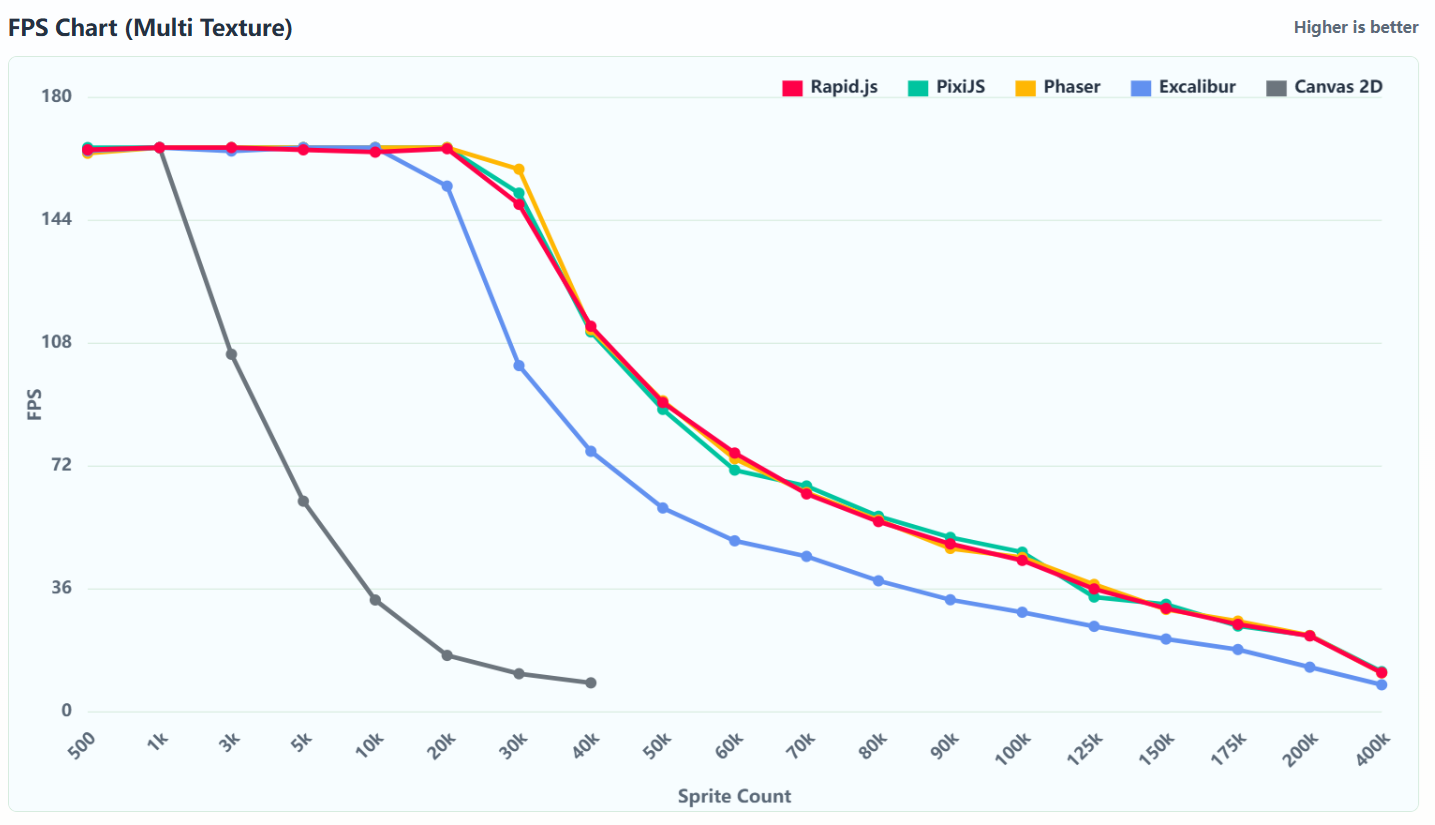
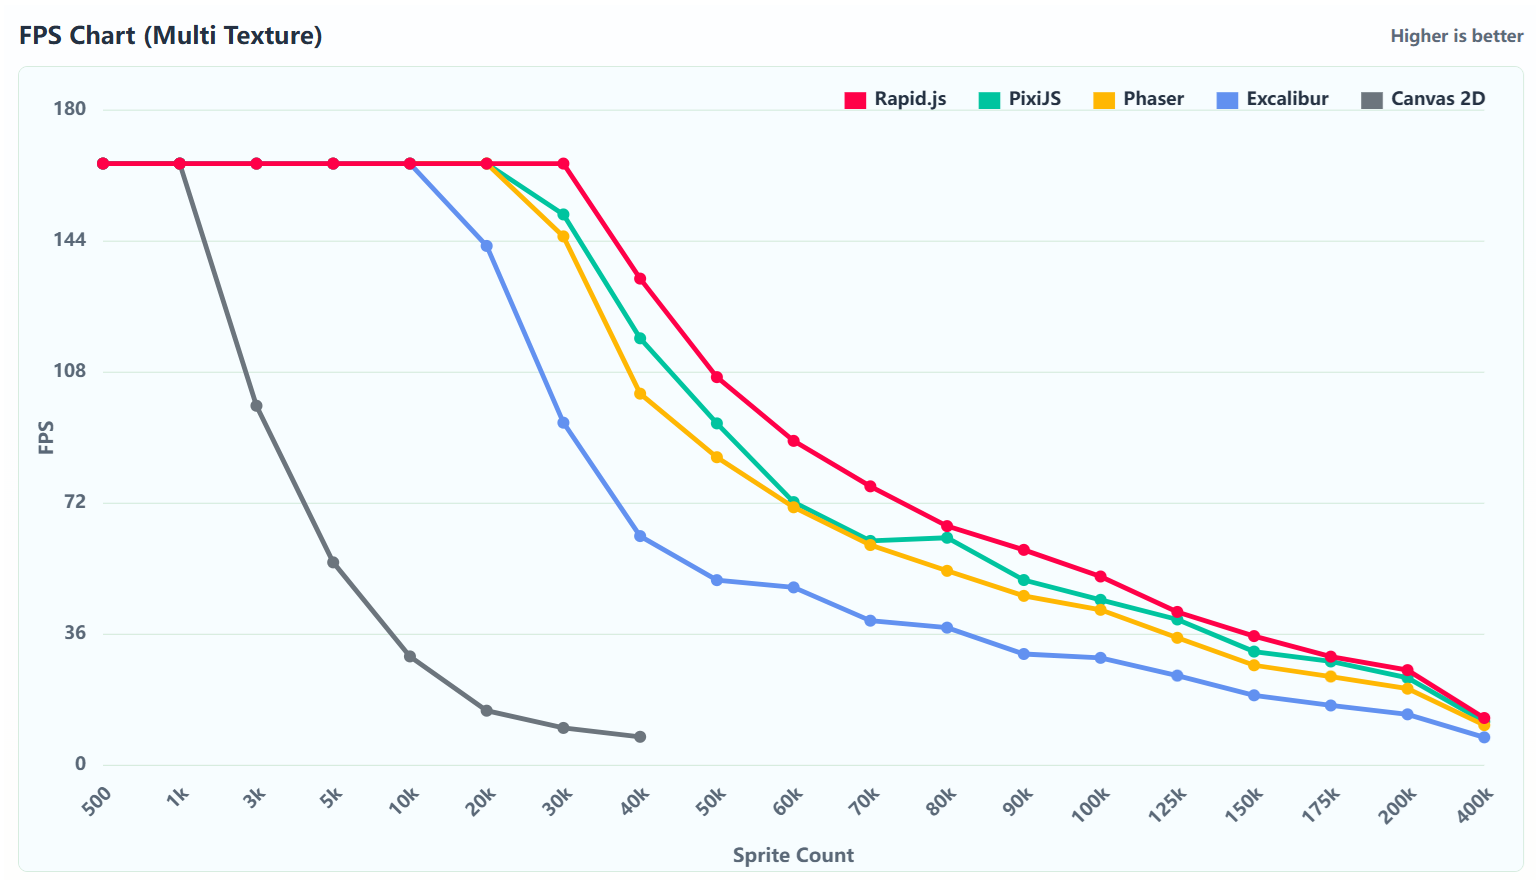
update benchmark data

diff --git a/docs/home.js b/docs/home.js
@@ -1,5 +1,58 @@
 import { demoOrder, demos, mountDemo, renderDemoCode } from "./demos.js";
 
+const chartColors = { rapid: "#ff3b67", pixi: "#16b89c", phaser: "#ffb20f", excalibur: "#6b97ec", canvas: "#68747d" };
+const packageData = [
+  ["rapid", "Rapid.js", 61.9, "61.9 kB"],
+  ["phaser", "Phaser", 1380, "1.38 MB"],
+  ["pixi", "PixiJS", 798, "798 kB"],
+  ["excalibur", "Excalibur", 574, "574 kB"],
+];
+const multiData = {
+  labels: ["500", "1k", "3k", "5k", "10k", "20k", "30k", "40k", "50k", "60k", "70k", "80k", "90k", "100k", "125k", "150k", "175k", "200k", "400k"],
+  series: [
+    ["Rapid.js", "rapid", [165.3, 164.7, 165.3, 165.3, 165.3, 165.3, 165.3, 139.3, 111.1, 92.3, 80.8, 71.0, 63.2, 57.1, 44.7, 37.7, 31.7, 28.3, 13.9]],
+    ["PixiJS", "pixi", [164.7, 165.0, 164.7, 165.3, 165.3, 165.3, 143.7, 115.1, 94.5, 80.7, 67.5, 61.3, 54.6, 44.8, 39.3, 32.9, 26.3, 23.8, 11.3]],
+    ["Phaser", "phaser", [165.3, 165.4, 165.3, 165.3, 164.7, 164.3, 152.4, 115.3, 90.3, 74.8, 64.5, 57.7, 51.6, 47.0, 35.9, 30.6, 25.6, 22.4, 11.6]],
+    ["Excalibur", "excalibur", [164.7, 164.3, 165.3, 165.3, 165.3, 147.7, 98.7, 74.8, 61.1, 52.5, 46.1, 40.1, 33.1, 31.3, 24.3, 20.7, 17.6, 14.9, 7.8]],
+    ["Canvas 2D", "canvas", [165.3, 165.3, 103.2, 58.5, 32.2, 16.3, 11.2, 8.5, null, null, null, null, null, null, null, null, null, null, null]],
+  ],
+};
+const chartSvg = (data) => {
+  const width = 620; const height = 290; const left = 52; const right = 16; const top = 22; const bottom = 58; const plotW = width - left - right; const plotH = height - top - bottom;
+  const x = (i) => left + i * plotW / (data.labels.length - 1); const y = (v) => top + (180 - v) * plotH / 180;
+  const grid = [0, 60, 120, 180].map((v) => `<line class="chart-gridline" x1="${left}" y1="${y(v)}" x2="${width - right}" y2="${y(v)}"/><text class="axis-label" x="4" y="${y(v) + 4}">${v}</text>`).join("");
+  const labels = data.labels.map((label, i) => `<text class="x-label" x="${x(i)}" y="${height - 30}" text-anchor="middle">${label}</text>`).join("");
+  const series = [...data.series].sort(([, firstKey], [, secondKey]) => (firstKey === "rapid") - (secondKey === "rapid")).map(([label, key, values]) => { const coords = values.map((v, i) => v == null ? null : [x(i), y(v)]).filter(Boolean); const lengths = coords.map((point, i) => i === 0 ? 0 : Math.hypot(point[0] - coords[i - 1][0], point[1] - coords[i - 1][1])); const totalLength = lengths.reduce((sum, length) => sum + length, 0); let travelled = 0; const points = coords.map(([px, py]) => `${px},${py}`).join(" "); const dots = coords.map(([px, py], i) => { travelled += lengths[i]; const progress = totalLength ? travelled / totalLength : 0; return `<circle class="line-dot" style="--dot-delay:${0.18 + progress * 2.55}s" cx="${px}" cy="${py}" r="3.7" fill="${chartColors[key]}"/>`; }).join(""); return `<g class="line-series"><polyline class="chart-line" pathLength="1" points="${points}" stroke="${chartColors[key]}"/><g>${dots}</g></g>`; }).join("");
+  const legend = data.series.map(([label, key]) => `<span><i style="background:${chartColors[key]}"></i>${label}</span>`).join("");
+  return `<div class="chart-legend">${legend}</div><svg viewBox="0 0 ${width} ${height}" preserveAspectRatio="none" aria-hidden="true">${grid}${labels}<text class="chart-axis-title" x="15" y="${top + plotH / 2}" text-anchor="middle" transform="rotate(-90 15 ${top + plotH / 2})">FPS</text><text class="chart-axis-title" x="${left + plotW / 2}" y="${height - 5}" text-anchor="middle">Sprite Count</text>${series}</svg>`;
+};
+
+const packageChartSvg = () => {
+  const max = 1400;
+  const width = 560; const height = 250; const left = 82; const bottom = 34; const plotH = 178;
+  const bars = packageData.map(([key, label, value, display], index) => {
+    const x = left + index * 116; const h = Math.max(7, value / max * plotH); const y = height - bottom - h;
+    return `<rect class="package-bar" x="${x}" y="${y}" width="58" height="${h}" fill="${chartColors[key] || "#7bcf8b"}"/><text class="package-label" x="${x + 29}" y="${height - 10}" text-anchor="middle">${label}</text><text class="bar-value" x="${x + 29}" y="${Math.max(18, y - 10)}" text-anchor="middle">${display}</text>`;
+  }).join("");
+  return `<svg viewBox="0 0 ${width} ${height}" preserveAspectRatio="none" aria-hidden="true"><line class="chart-axis" x1="${left - 12}" y1="${height - bottom}" x2="${width - 15}" y2="${height - bottom}"/><line class="chart-gridline" x1="${left - 12}" y1="${height - bottom - plotH / 2}" x2="${width - 15}" y2="${height - bottom - plotH / 2}"/><text class="axis-label" x="12" y="${height - bottom + 4}">0</text><text class="axis-label" x="8" y="${height - bottom - plotH / 2 + 4}">700k</text><text class="axis-label" x="8" y="${height - bottom - plotH + 4}">1.4M</text>${bars}</svg>`;
+};
+
+document.querySelectorAll("[data-chart]").forEach((section) => {
+  const packageTarget = section.querySelector(".package-chart");
+  const target = section.querySelector(".line-chart");
+  if (packageTarget) packageTarget.innerHTML = packageChartSvg();
+  if (target) target.innerHTML = chartSvg(multiData);
+});
+
+const chartObserver = new IntersectionObserver((entries, observer) => {
+  entries.forEach(({ isIntersecting, target }) => {
+    if (!isIntersecting) return;
+    target.classList.add("is-visible");
+    observer.unobserve(target);
+  });
+}, { threshold: 0.28 });
+document.querySelectorAll(".reveal-chart").forEach((chart) => chartObserver.observe(chart));
+
 const select = document.querySelector("#home-demo-select");
 const code = document.querySelector("#home-demo-code");
 const copyButton = document.querySelector("[data-copy-target]");

diff --git a/docs/styles.css b/docs/styles.css
@@ -393,6 +393,57 @@ h1 {
   padding: 4rem 0;
 }
 
+.proof-section {
+  padding: 4rem 0 5rem;
+  background: rgba(255, 255, 255, 0.3);
+  border-top: 1px solid rgba(215, 236, 223, 0.72);
+  border-bottom: 1px solid rgba(215, 236, 223, 0.72);
+}
+
+.proof-heading {
+  max-width: 43rem;
+  margin-bottom: 3rem;
+}
+
+.proof-heading h2 {
+  margin: 0;
+  font-size: 2.4rem;
+  font-weight: 900;
+  line-height: 1.05;
+}
+
+.proof-heading p { margin: 0; color: #5a6877; font-size: 1.05rem; font-weight: 650; }
+.proof-grid { display: grid; gap: 5rem; }
+.proof-row { display: grid; grid-template-columns: minmax(0, 1.1fr) minmax(18rem, 0.9fr); gap: clamp(2rem, 7vw, 7rem); align-items: center; }
+.proof-row-copy-first { grid-template-columns: minmax(18rem, 0.9fr) minmax(0, 1.1fr); }
+.proof-copy { max-width: 30rem; }
+.proof-eyebrow { display: inline-block; margin-bottom: .9rem; color: var(--rapid-leaf); font-size: .75rem; font-weight: 900; letter-spacing: .08em; text-transform: uppercase; }
+.proof-title { display: flex; align-items: center; gap: 1rem; margin-bottom: 1rem; }
+.proof-title-icon { flex: 0 0 76px; width: 76px; height: 76px; object-fit: contain; }
+.proof-title h3 { margin-bottom: 0; font-size: clamp(1.9rem, 3.1vw, 2.8rem); white-space: nowrap; }
+.proof-copy h3 { margin: 0 0 1rem; font-size: clamp(2rem, 4vw, 3.25rem); font-weight: 900; line-height: 1.02; }
+.proof-copy h3 em { color: inherit; font-style: normal; }
+.proof-copy p { margin-bottom: 1rem; color: #5a6877; font-size: 1.04rem; line-height: 1.65; }
+.proof-copy strong { color: var(--rapid-ink); }
+.proof-note { color: #71808c; font-size: .78rem; font-weight: 800; }
+.proof-benchmark { display: inline-flex; gap: .35rem; align-items: center; margin-top: 1rem; color: #267fa9; font-size: .88rem; font-weight: 900; text-decoration: none; }
+.proof-benchmark:hover, .proof-benchmark:focus { color: var(--rapid-leaf); }
+.proof-visual { min-width: 0; }
+.chart-kicker { display: flex; align-items: center; justify-content: space-between; gap: .5rem; margin: 0 0 .7rem .25rem; color: #536070; font-size: .84rem; font-weight: 850; }
+.chart-kicker > span:first-child { display: inline-flex; align-items: center; gap: .5rem; }
+.chart-quality { color: #71808c; font-size: .76rem; font-weight: 800; }
+.chart-dot { display: block; width: .65rem; height: .65rem; border-radius: 50%; }
+.chart-dot-blue { background: var(--rapid-blue); }.chart-dot-coral { background: var(--rapid-coral); }.chart-dot-mint { background: var(--rapid-leaf); }
+.chart-frame { position: relative; min-height: 17rem; padding: 1rem .85rem .5rem; background: rgba(247, 253, 255, .82); border: 1px solid var(--rapid-line); border-radius: 8px; box-shadow: 0 8px 0 rgba(84, 184, 234, .12); }
+.package-chart, .line-chart { width: 100%; height: 100%; min-height: 15rem; }
+.chart-frame svg { display: block; width: 100%; height: 100%; overflow: visible; }
+.chart-gridline { stroke: #d7ecdf; stroke-width: 1; }.chart-axis { stroke: #9bdcb0; stroke-width: 1.5; }.axis-label, .x-label { fill: #72818c; font-size: 10px; font-weight: 800; }.x-label { font-size: 9px; }.chart-axis-title { fill: #536070; font-size: 11px; font-weight: 900; }
+.chart-legend { display: flex; flex-wrap: wrap; gap: .4rem .8rem; margin: 0 0 .1rem .25rem; color: #536070; font-size: .68rem; font-weight: 800; }.chart-legend span { display: inline-flex; align-items: center; gap: .3rem; }.chart-legend i { display: block; width: .55rem; height: .55rem; border-radius: 50%; }.chart-line { fill: none; stroke-width: 3; stroke-linecap: round; stroke-linejoin: round; stroke-dasharray: 1; stroke-dashoffset: 1; transition: stroke-dashoffset 2.7s cubic-bezier(.2,.8,.2,1); }.is-visible .chart-line { stroke-dashoffset: 0; }.line-dot { opacity: 0; transform: scale(0); transform-box: fill-box; transform-origin: center; transition: opacity .08s linear var(--dot-delay), transform .42s cubic-bezier(.34,1.56,.64,1) var(--dot-delay); }.is-visible .line-dot { opacity: 1; transform: scale(1); }
+.bar-value, .package-label { fill: #243142; font-size: 10px; font-weight: 900; }.package-bar { transform-box: fill-box; transform-origin: center bottom; transform: scaleY(0); transition: transform .8s cubic-bezier(.2,.8,.2,1); }.is-visible .package-bar { transform: scaleY(1); }
+.reveal-chart .proof-copy { opacity: 0; transform: translateY(20px); transition: opacity .7s ease, transform .7s ease; }.reveal-chart.is-visible .proof-copy { opacity: 1; transform: translateY(0); }
+
+@media (max-width: 767.98px) { .proof-section { padding: 3rem 0 4rem; }.proof-grid { gap: 3.5rem; }.proof-row, .proof-row-copy-first { grid-template-columns: 1fr; gap: 1.75rem; }.proof-row-copy-first .proof-copy { order: -1; }.chart-frame { min-height: 14rem; }.package-chart, .line-chart { min-height: 12.5rem; }.proof-title-icon { flex-basis: 60px; width: 60px; height: 60px; }.proof-title h3 { font-size: 1.75rem; } }
+
 .users-heading {
   max-width: 42rem;
   margin-bottom: 2rem;
@@ -847,4 +898,3 @@ footer {
     overflow: visible;
   }
 }
-

diff --git a/docs/index.html b/docs/index.html
@@ -106,6 +106,45 @@
         </div>
       </section>
 
+      <section class="proof-section" aria-labelledby="proof-title">
+        <div class="container">
+          <div class="proof-heading">
+            <div class="users-title">
+              <img src="./image/fast.png" class="users-title-icon pixel-art" alt="">
+              <h2 id="proof-title">Built to stay light.</h2>
+            </div>
+            <p>Small downloads, steady frames, and a renderer that keeps its shape as your scene grows.</p>
+          </div>
+
+          <div class="proof-grid">
+            <article class="proof-row proof-row-chart-first reveal-chart" data-chart="package">
+              <div class="proof-visual">
+                <div class="chart-kicker"><span><span class="chart-dot chart-dot-blue"></span> Production bundle size</span></div>
+                <div class="chart-frame"><div class="package-chart" role="img" aria-label="Bundle size comparison chart"></div></div>
+              </div>
+              <div class="proof-copy">
+                <div class="proof-title"><img src="./image/fast-download.png" class="proof-title-icon pixel-art" alt=""><h3>Less to download.<br><em>More room to play.</em></h3></div>
+                <p>Rapid Render stays compact at <strong>61.9 kB (~18 kB gzipped)</strong>, leaving more room for the game code that makes your world feel alive.</p>
+                <span class="proof-note">Compared with popular 2D renderers</span>
+              </div>
+            </article>
+
+            <article class="proof-row proof-row-copy-first reveal-chart" data-chart="multi">
+              <div class="proof-copy">
+                <div class="proof-title"><img src="./image/run-fast.png" class="proof-title-icon pixel-art" alt=""><h3>Batch more sprites.<br><em>Keep the frame.</em></h3></div>
+                <p>Rapid.js keeps its frame-time curve remarkably steady as scenes grow. Automatic batching handles the grouping, so your game code can stay focused on the scene.</p>
+                <a class="proof-benchmark" href="./benchmark/">Test it yourself in the benchmark <span aria-hidden="true">→</span></a>
+              </div>
+              <div class="proof-visual">
+                <div class="chart-kicker"><span><span class="chart-dot chart-dot-coral"></span> FPS chart · multi texture</span><span class="chart-quality">Higher is better</span></div>
+                <div class="chart-frame"><div class="line-chart" role="img" aria-label="Multi texture frames per second comparison chart"></div></div>
+              </div>
+            </article>
+
+          </div>
+        </div>
+      </section>
+
       <section class="users-section" id="start">
         <div class="container">
           <div class="users-heading">
